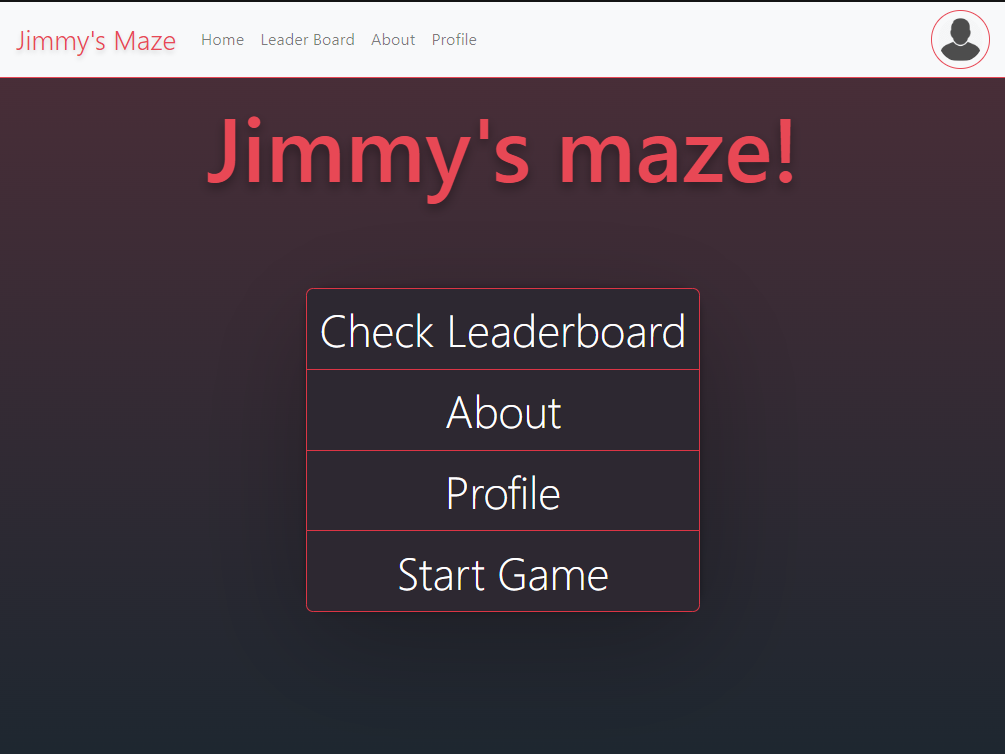
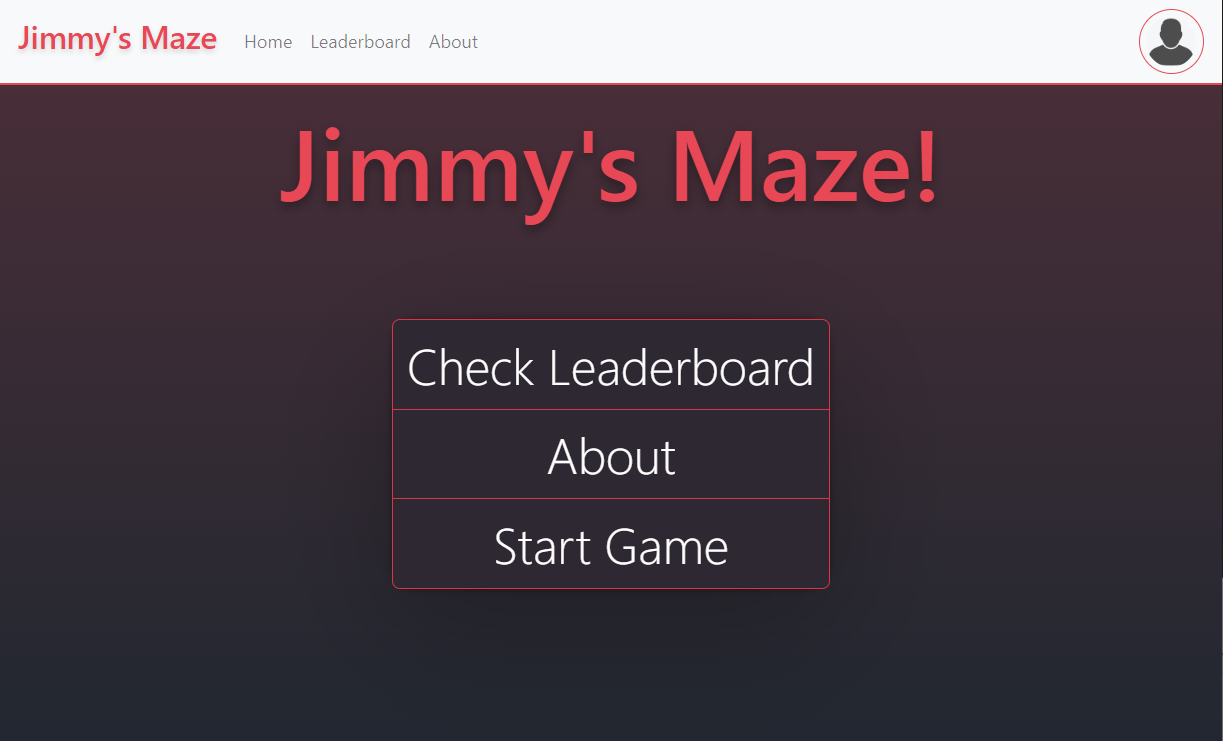
Quality of Life Upgrade by Yours truly
- Required screen resolution because the group didn't like bootstrap.
- I also don't love bootstrap, pretty neat though, I'll make a framework too.
- Capitalized Maze and although I agree "leaderboard" should be two words, its technically not and seeing as this is on my resume now....
- More pictures of the site and game.

diff --git a/css/universal.css b/css/universal.css
@@ -34,3 +34,23 @@ html {
 body{
 	height:100%;
 background: linear-gradient(0deg, rgba(30,39,48,1) 0%, rgba(74,46,56,1) 94%, rgba(232,72,85,1) 100%);}
+
+#requireDesktop {
+	display:block;
+	position:fixed;
+	width:100%;
+	height: 100%;
+	background:rgba(0,0,0,.975);
+	z-index: 100;
+	color:white;
+	font-size: 2rem;
+	text-align: center;
+	padding-top:15rem;
+	padding-top:15rem;
+}
+@media screen and (min-width: 1200px) {
+	#requireDesktop{
+		visibility: hidden;
+		display:none;
+	}
+}

diff --git a/navbar.php b/navbar.php
@@ -14,14 +14,21 @@
         }
     }
 </script>
+<div id="requireDesktop">
+    
+    Your browser window is too small. <br>
+    If you're on a mobile device try a desktop. <br> Otherwise, increase the size of your window.
+
+</div>
 <nav id="navbar" class="navbar navbar-expand-lg navbar-light bg-light" style="border-bottom: 2px solid #e84855;">
-    <a class="navbar-brand" href="#" style="text-shadow:0px 3px 5px rgba(0,0,0,.15); font-weight:350;font-size:30px;color:#e84855;">Jimmy's Maze</a>
+    <a class="navbar-brand" href="/" style="text-shadow:0px 3px 5px rgba(0,0,0,.15); font-weight:350;font-size:30px;color:#e84855;">
+        <h3> Jimmy's Maze </h3> </a>
     <ul class=" navbar-nav mr-auto">
         <li class="navbar-item">
             <a class="nav-link" href="/">Home</a>
         </li>
         <li class="navbar-item ">
-            <a class="nav-link" href="/p/leader_board">Leader Board</a>
+            <a class="nav-link" href="/p/leaderboard">Leaderboard</a>
         </li>
         <li class="navbar-item ">
             <a class="nav-link" href="/p/about">About</a>

diff --git a/index.php b/index.php
@@ -1,6 +1,7 @@
 <?php
 session_start();
 ?>
+<meta name="viewport" content="width=device-width, initial-scale=1">
 <html lang="en">
 <head>
 	<meta charset="utf-8"/>
@@ -46,7 +47,7 @@ session_start();
 	<?php require_once  './navbar.php'; ?>
 
 	<div class=" ">
-		<h1 >Jimmy's maze!</h1>
+		<h1 >Jimmy's Maze!</h1>
 		<div class="col-md-12 text-center">
 			<div class="btn-group-vertical" >
 				<button type="button" class="btn btn-outline-danger"  id="score" onclick="window.location.href = 'p/leader_board'">Check Leaderboard</button>

diff --git a/p/user_profile/index.php b/p/user_profile/index.php
@@ -9,6 +9,7 @@ if (!isset($_SESSION['logged_in']) || !$_SESSION['logged_in']) {
 	</script>';
 }
 ?>
+<meta name="viewport" content="width=device-width, initial-scale=1.0">
 <head>
     <script src="https://ajax.googleapis.com/ajax/libs/jquery/3.4.1/jquery.min.js"></script>
     <script src="https://maxcdn.bootstrapcdn.com/bootstrap/3.4.1/js/bootstrap.min.js"></script>
@@ -85,6 +86,7 @@ if (!isset($_SESSION['logged_in']) || !$_SESSION['logged_in']) {
 
             color:#e84855; 
         }
+    
     </style>
 </head>
 <body>

diff --git a/p/leaderboard/index.php b/p/leaderboard/index.php
@@ -1,6 +1,7 @@
 <?php
 session_start();
 ?>
+<meta name="viewport" content="width=device-width, initial-scale=1.0">
 <html lang="en">
     <head>
         <meta charset="utf-8"/>
@@ -54,7 +55,7 @@ session_start();
     <body>
         <?php require '../../navbar.php'; ?>
 
-        <h1>Leader Board!</h1>
+        <h1>Leaderboard!</h1>
         <div class="jumbotron container " id="parent">
 
             <form action="" method="post">

diff --git a/p/about/index.php b/p/about/index.php
@@ -1,6 +1,7 @@
 <?php
 session_start();
 ?>
+<meta name="viewport" content="width=device-width, initial-scale=1.0">
 <html lang="en">
 	<head>
 		<script src="https://ajax.googleapis.com/ajax/libs/jquery/3.4.1/jquery.min.js"></script>

diff --git a/p/game/index.php b/p/game/index.php
@@ -6,6 +6,7 @@ if(!isset($_SESSION['logged_in']) || !$_SESSION['logged_in']){
     header('Location: /p/login');
 }
 ?>
+<meta name="viewport" content="width=device-width, initial-scale=1.0">
 <html>
 
     <head>

diff --git a/p/login/index.php b/p/login/index.php
@@ -7,6 +7,7 @@ if (isset($_SESSION['logged_in']) && $_SESSION['logged_in']) {
 	</script>';
 }
 ?>
+<meta name="viewport" content="width=device-width, initial-scale=1.0">
 <html lang="en">
 
     <head>

diff --git a/p/level-completed/index.php b/p/level-completed/index.php
@@ -8,7 +8,7 @@ if(!isset($_SESSION['logged_in']) || !$_SESSION['logged_in']){
 	</script>';
 }
 ?>
-
+<meta name="viewport" content="width=device-width, initial-scale=1.0">
 <html lang="en">
 
 	<head>

diff --git a/p/register/index.php b/p/register/index.php
@@ -9,7 +9,7 @@ if(isset($_SESSION['logged_in']) && $_SESSION['logged_in']){
 }
 
 ?>
-
+<meta name="viewport" content="width=device-width, initial-scale=1.0">
 <html lang="en">
 
 	<head>

diff --git a/README.md b/README.md
@@ -48,6 +48,8 @@
     This repository contains the source code for an online maze game titled Jimmy's Maze. There are seven maze levels to complete and the user's score is determined by the time taken to complete the maze. The game includes a leaderboard, profile page, and user login and registration features.
   </p>
   
+![text](https://github.com/knaxel/JimmysMaze/blob/master/img/github8.PNG?raw=true)
+
 <!-- [![IMAGE ALT TEXT HERE](https://img.youtube.com/vi/8IIgYCVqt5k/0.jpg)](https://www.youtube.com/watch?v8IIgYCVqt5k) -->
 <details>
   <summary><h1>Images and Media</h1></summary>
@@ -61,6 +63,11 @@
 ![text](https://github.com/knaxel/JimmysMaze/blob/master/img/github4.PNG?raw=true)
 
 ![text](https://github.com/knaxel/JimmysMaze/blob/master/img/github5.PNG?raw=true)
+
+![text](https://github.com/knaxel/JimmysMaze/blob/master/img/github6.PNG?raw=true)
+
+![text](https://github.com/knaxel/JimmysMaze/blob/master/img/github7.PNG?raw=true)
+
  
 </details> 
 
